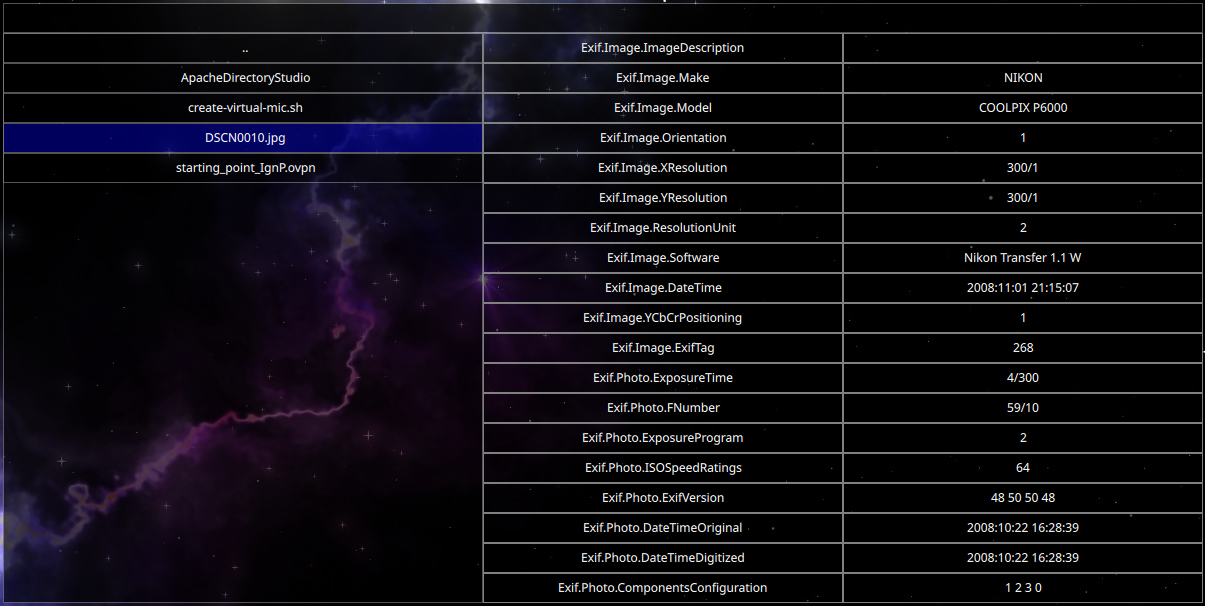
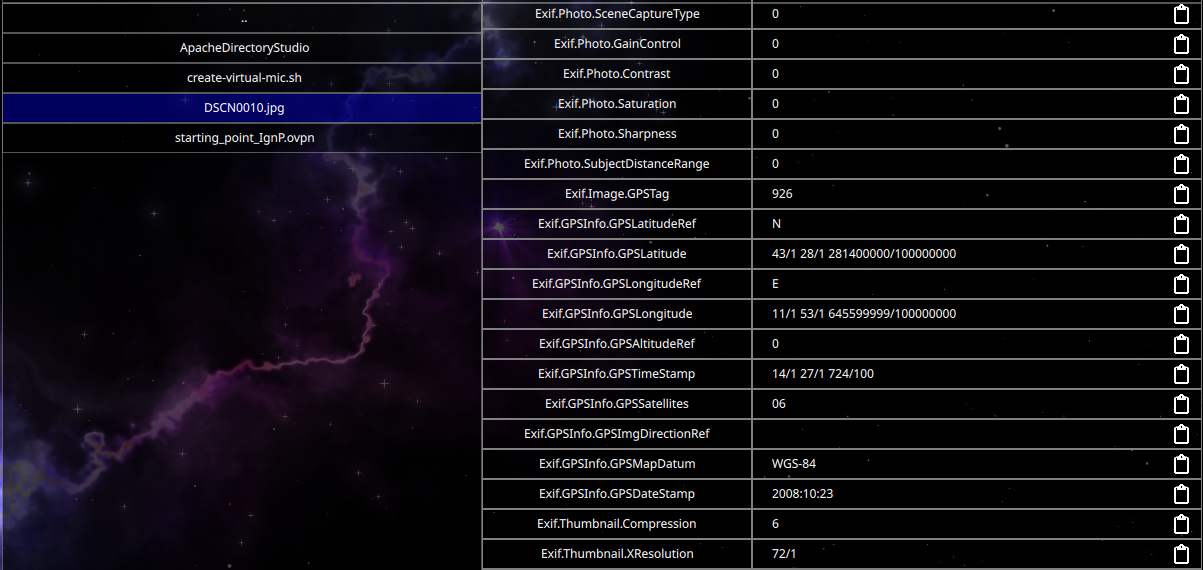
Updated image

Changed region(s): [[0.0, 0.0, 1.0, 1.0], [0.0, 0.5667, 0.0308, 0.6263], [0.0, 0.2982, 0.0308, 0.3281]]

diff --git a/content/App.qml b/content/App.qml
@@ -209,6 +209,12 @@ Window {
                                                 textEdit.selectAll();
                                                 textEdit.copy();
                                             }
+                                            onEntered: {
+                                                copyIcon.opacity = 0.6;
+                                            }
+                                            onExited: {
+                                                copyIcon.opacity = 1;
+                                            }
                                         }
 
                                         background: Rectangle {
@@ -217,6 +223,8 @@ Window {
                                             color: "transparent"
 
                                             Image {
+                                                id: copyIcon
+
                                                 anchors.centerIn: parent
                                                 source: "assets/clipboard-regular.svg"
                                                 width: 20
